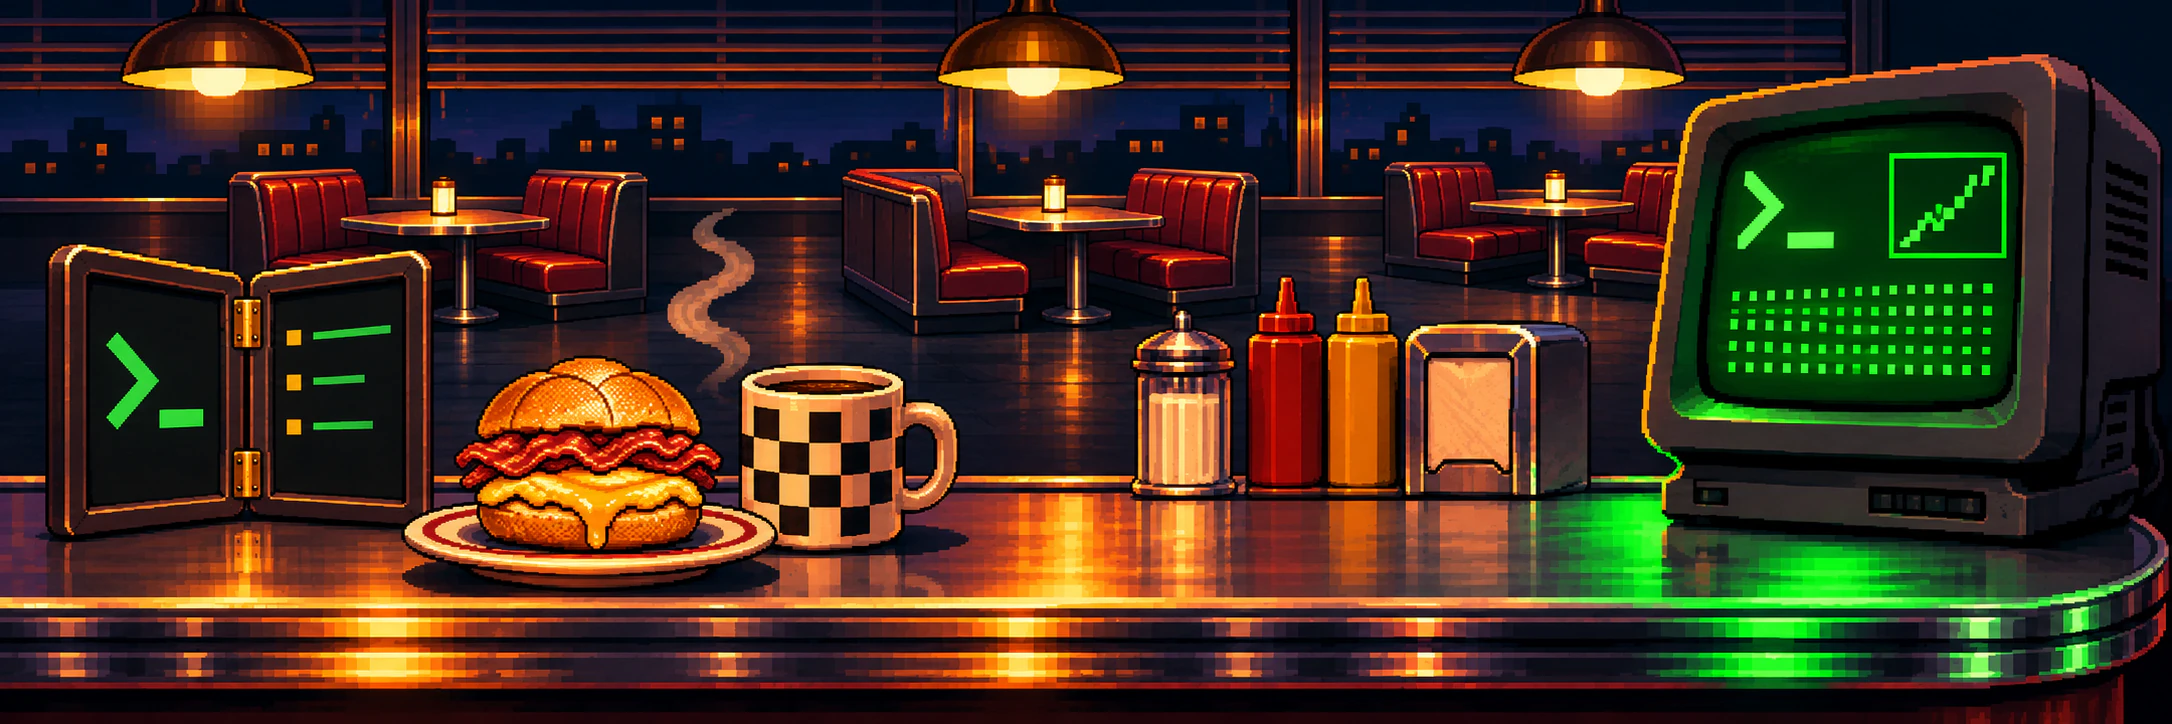
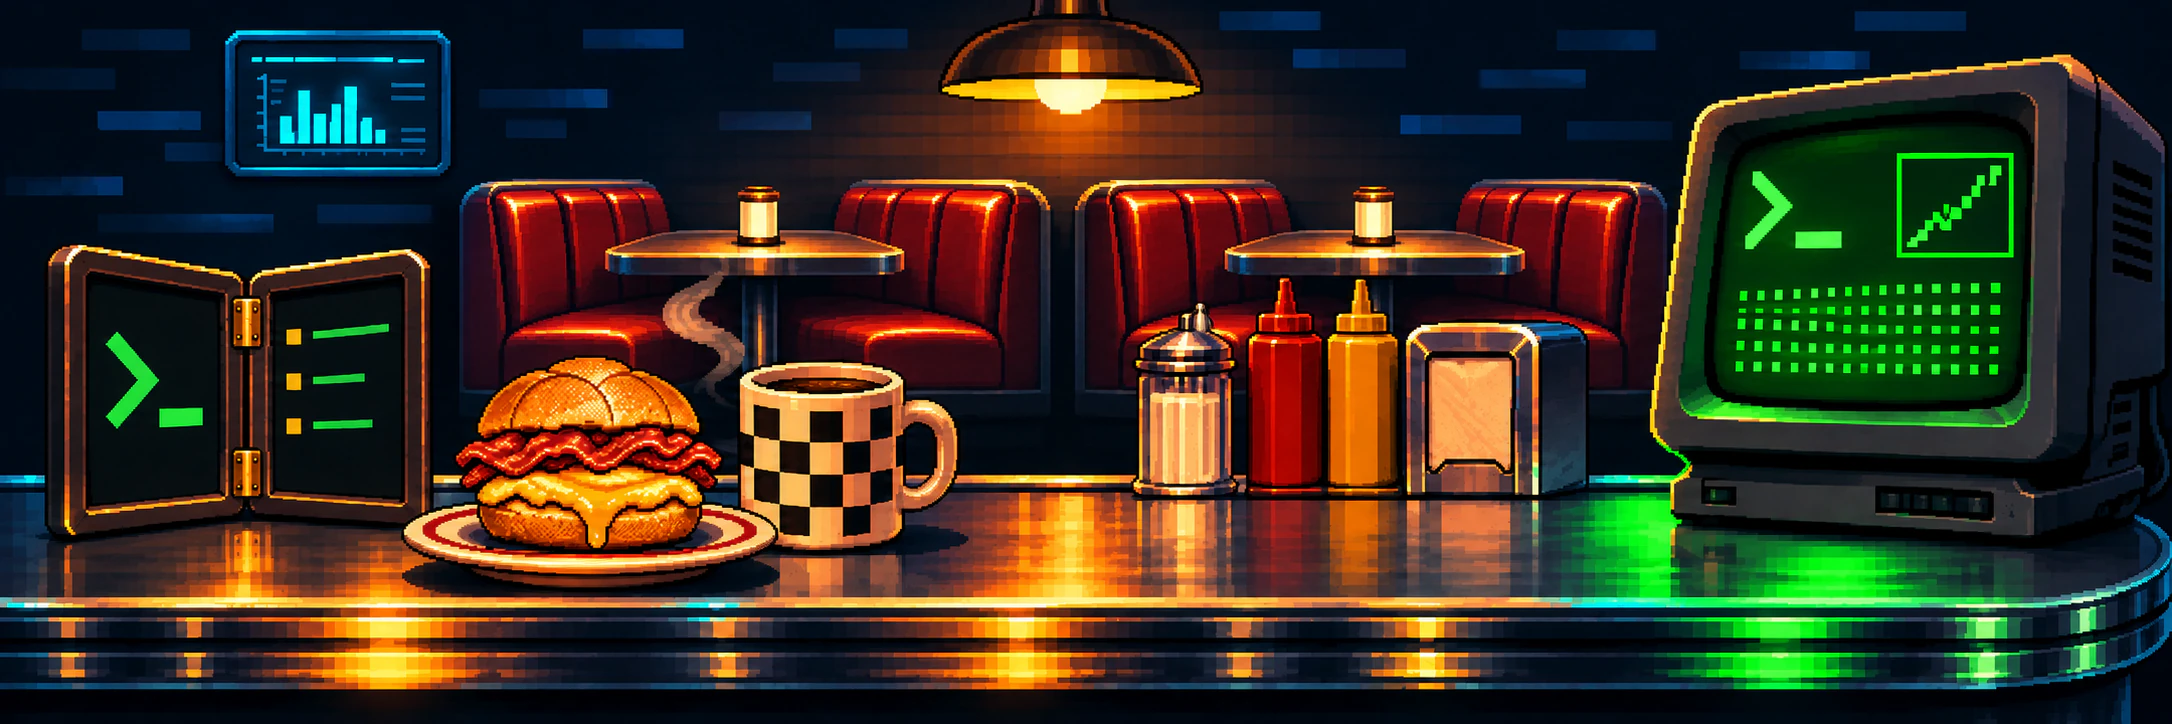
Bring the diner booths closer to the counter
Move the booth tables up against a navy brick wall. Use the Response Menu palette for the surroundings and keep the established counter artwork in front.

The revised banner uses the built-in ImageGen tool with the previous profile banner as image 1 and the official Response Menu banner as image 2.

Style reference
https://github.com/PendingUpdates/Response-Menu/blob/c310c4bf4a19608a56888fe17ecee492cc816ed3/docs/assets/Response-Menu-Banner.png

ImageGen prompt
[…]

diff --git a/profile/README.md b/profile/README.md
@@ -3,7 +3,7 @@
 **[Open the Response Menu](https://github.com/PendingUpdates/Response-Menu)** for incident response and security audit tools.<br>
 **[Visit PendingUpdates.com](https://pendingupdates.com/)** for vulnerability records and vendor patch guidance.
 
-![A hinged menu shows the green PendingUpdates prompt beside the BEC sandwich and a CRT. Separate red booths line the back of the pixel-art diner.](https://raw.githubusercontent.com/PendingUpdates/.github/main/profile/assets/night-shift.webp)
+![A hinged menu bearing the PendingUpdates prompt, the BEC sandwich and a green CRT share a pixel-art counter. Two red booths sit just behind it against navy brick.](https://raw.githubusercontent.com/PendingUpdates/.github/main/profile/assets/night-shift.webp?v=c20c78a3)
 
 ## At the counter
 
